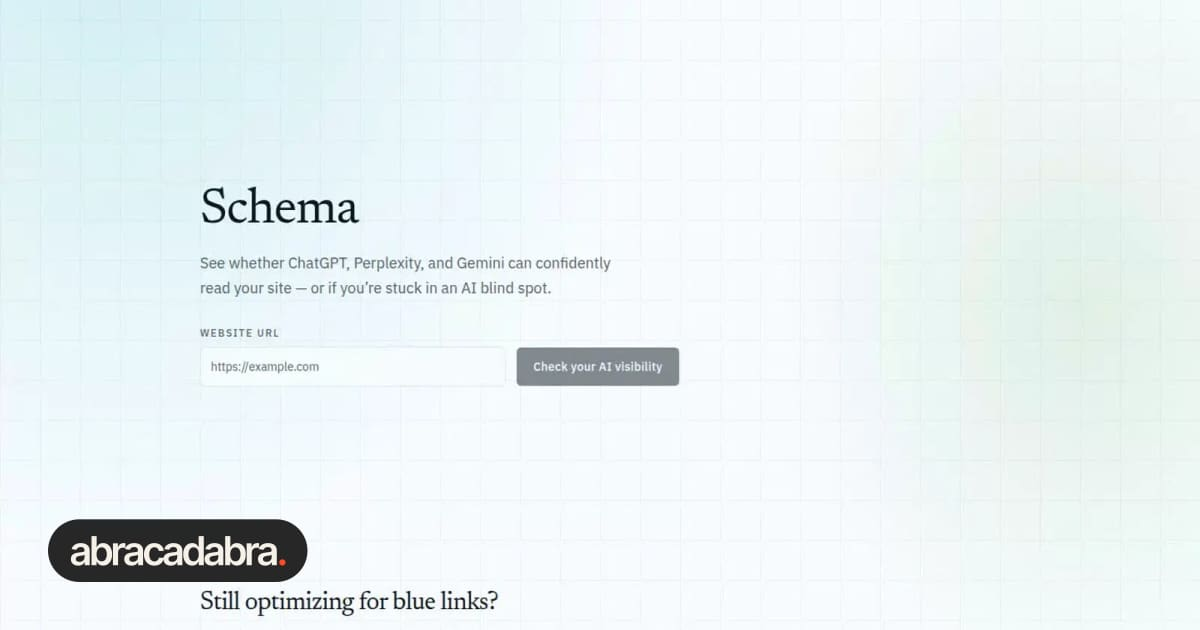
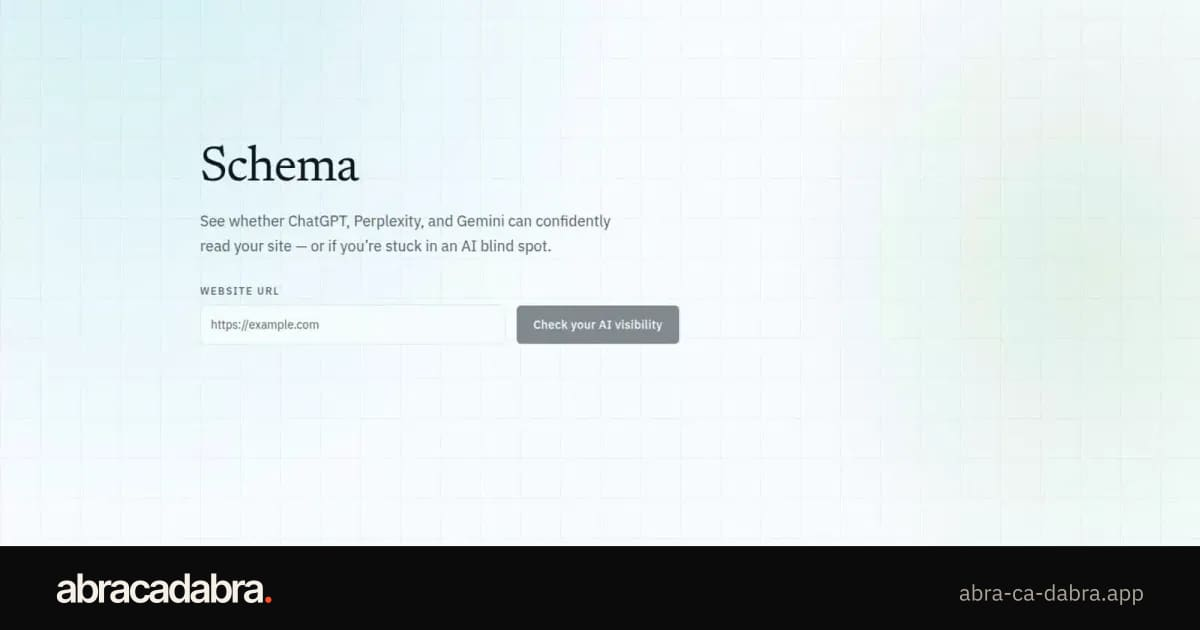
Social cards: photo cards get a solid bottom band instead of a pill
The photo is cropped into the 1200x546 area above an 84px #0B0B0B band that
carries the wordmark and abra-ca-dabra.app, so the wordmark never sits on
screenshot text. 18 photo cards regenerated.

diff --git a/scrollcraft/builds/abracadabra-ai/README.md b/scrollcraft/builds/abracadabra-ai/README.md
@@ -73,7 +73,7 @@ New photography should sit on a neutral-to-warm white point, with blacks crushed
 
 IBM Plex Sans (400, 400 italic, 500, 600) and Inter Tight (500, 600, 700) are the Latin WOFF2 files in `assets/fonts/`. Their OFL licences sit beside them. Add a weight by dropping the subset in that folder and adding an `@font-face` in `assets/fonts.css`.
 
-`node scripts/write-brand-assets.mjs` rebuilds the icon set, the grain tile, the homepage social card, the blurred course hero, and the phone crops of the pirx screenshots. Page social cards are JPEGs written by `scripts/site-pages.mjs`, `scripts/service-visuals.mjs` and `scripts/blog.mjs` during `npm test`. Every card shares `scripts/og-brand.mjs`: the lowercase `abracadabra` wordmark (Inter Tight 600, -0.05em, round `#FF4B24` dot) and all card text are drawn as outlines from `scripts/fonts`, so no card depends on fonts installed on the build machine. Text plates and blog cards carry the wordmark bottom-left; photo cards get it on a dark pill bottom-left. `assets/og/films.jpg` is a static file and is not generated. The build also curls straight quotes in visible text. It does not change tags, scripts, or JSON-LD.
+`node scripts/write-brand-assets.mjs` rebuilds the icon set, the grain tile, the homepage social card, the blurred course hero, and the phone crops of the pirx screenshots. Page social cards are JPEGs written by `scripts/site-pages.mjs`, `scripts/service-visuals.mjs` and `scripts/blog.mjs` during `npm test`. Every card shares `scripts/og-brand.mjs`: the lowercase `abracadabra` wordmark (Inter Tight 600, -0.05em, round `#FF4B24` dot) and all card text are drawn as outlines from `scripts/fonts`, so no card depends on fonts installed on the build machine. Text plates and blog cards carry the wordmark bottom-left; photo cards are cropped into the area above a solid 84px `#0B0B0B` band along the bottom edge that carries the wordmark and the address, so it never sits on screenshot text. `assets/og/films.jpg` is a static file and is not generated. The build also curls straight quotes in visible text. It does not change tags, scripts, or JSON-LD.
 
 Blog notes get a sticky “On this page” rail from 1280px and a closed details block on phones, plus a 2px reading-progress line.
 
